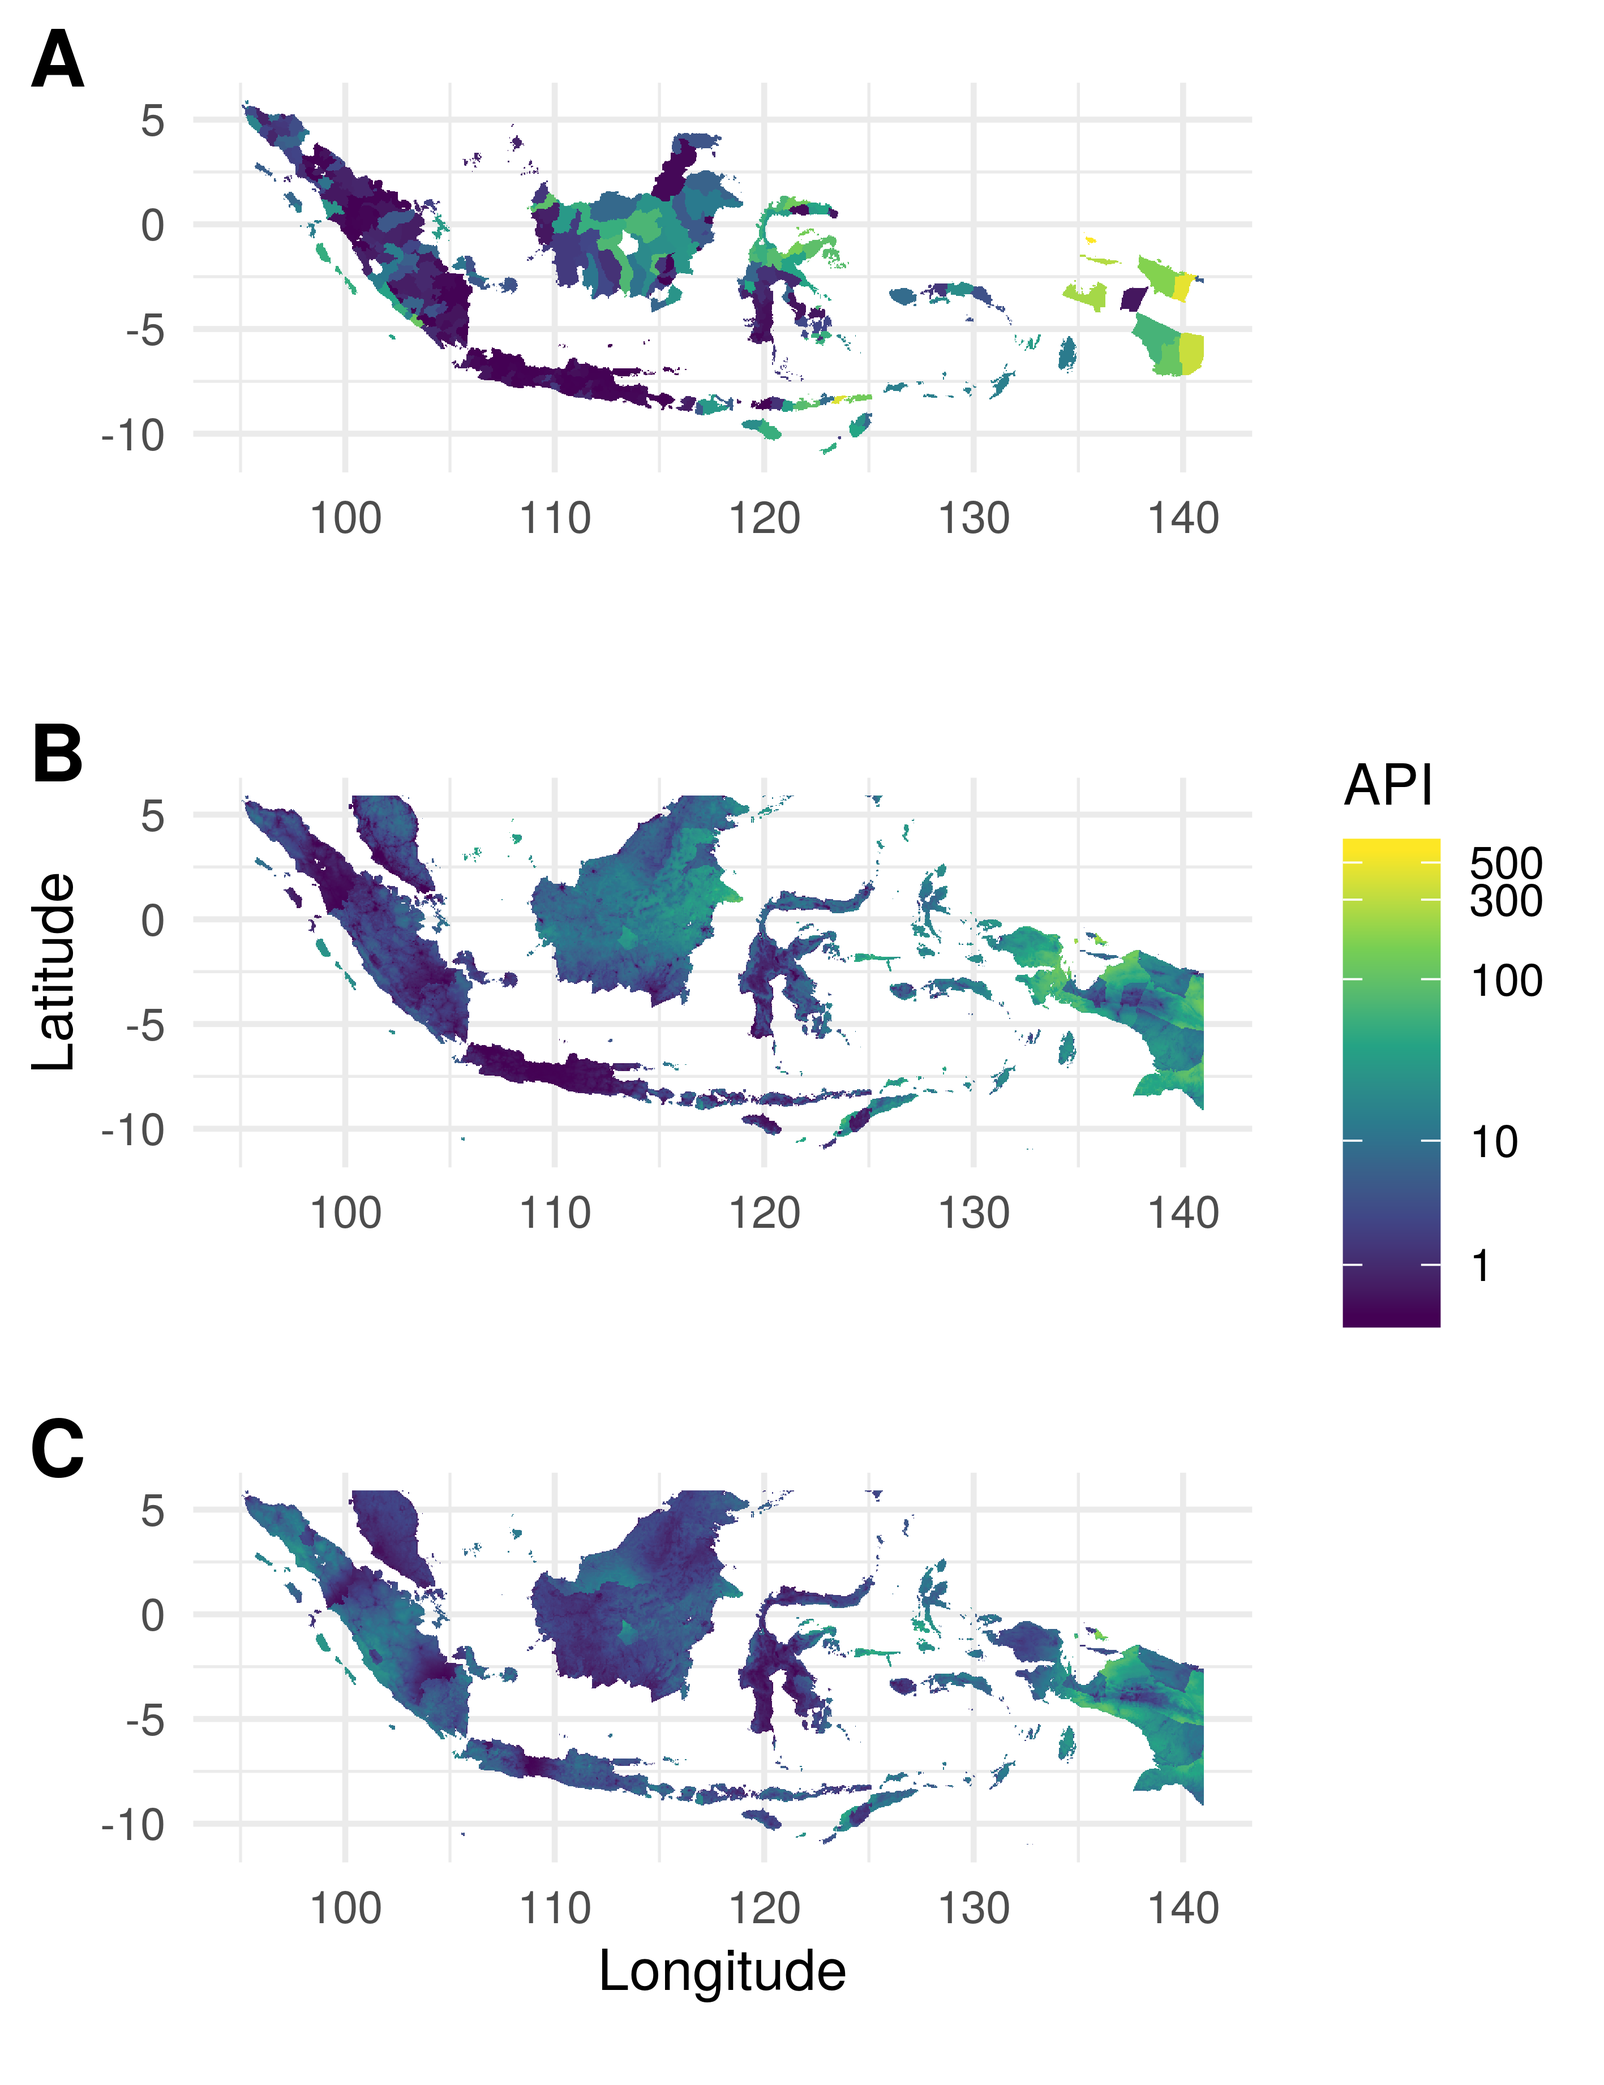
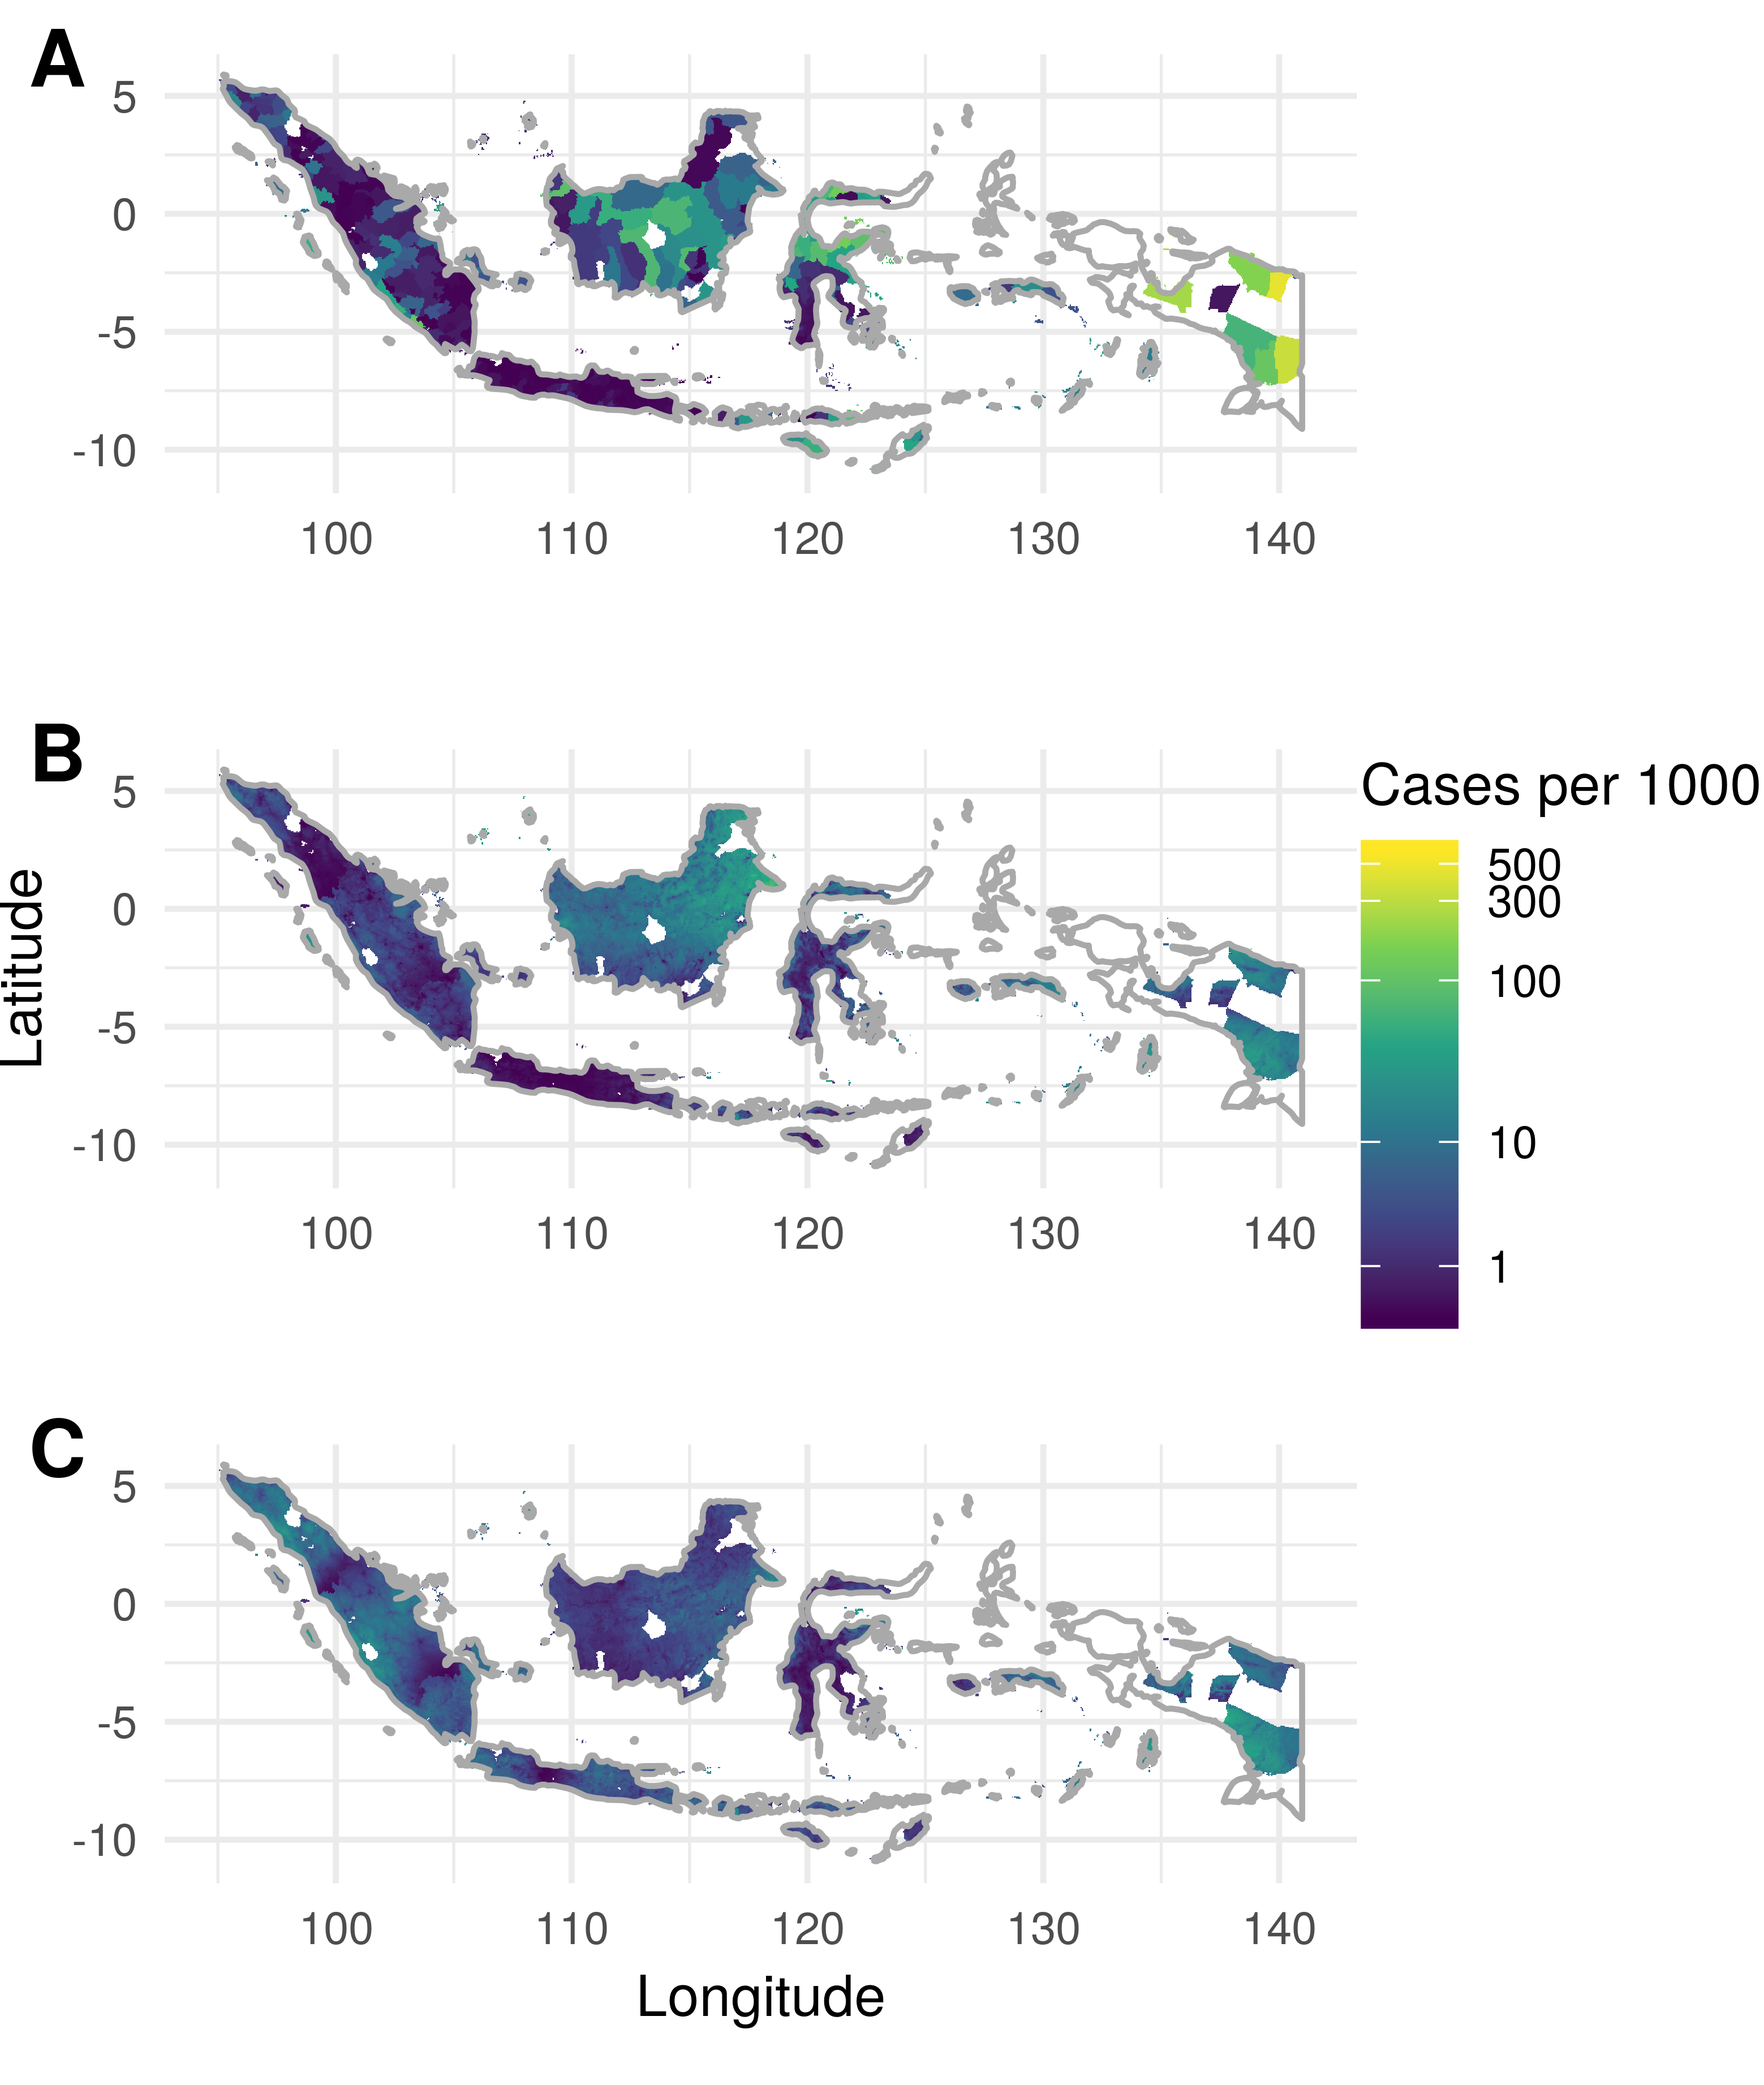
Tidy up.

diff --git a/si.tex b/si.tex
@@ -37,6 +37,8 @@
 % multirow for multiple row tables. 
 \usepackage{multirow}
 
+\usepackage{subfig}
+
 
 
 % Bold the 'Figure #' in the caption and separate it from the title/caption with a period
@@ -351,20 +353,13 @@ The incidence (log10) data (top), predicted log10 incidence from the prevalence 
 
 
 
-
 \clearpage
+
 \subsection{Full model fields}
 
 
 \subsubsection{Senegal}
-\begin{figure}[h!]
-\centering
 
-\includegraphics[width = 0.3\textheight]{figures/sen_prevgp.png}
-
-\caption{The prevalence GP model that is used as a covariate.}
-\label{gpsencov}
-\end{figure}
 
 
 
@@ -376,14 +371,16 @@ The incidence (log10) data (top), predicted log10 incidence from the prevalence 
 \caption{The random field as fitted to all the data in the baseline model.}
 \label{baselinefieldsen}
 \end{figure}
+
+
 \begin{figure}[h!]
-\centering
-
-\includegraphics[width = 0.3\textheight]{figures/sen_prgp_field.png}
-
-\caption{The random field as fitted to all the data in the prevalence GP model.}
-\label{gpfieldsen}
+     \centering
+     \subfloat[][The prevalence GP model that is used as a covariate.]{\includegraphics[width = 0.3\textheight]{figures/sen_prevgp.png}}
+     \subfloat[][The random field as fitted to all the data in the prevalence GP model.]{\includegraphics[width = 0.3\textheight]{figures/sen_prgp_field.png}}
+     \label{gpsencov}
 \end{figure}
+%remaining part
+
 
 \begin{figure}[h!]
 \centering
@@ -399,14 +396,7 @@ The incidence (log10) data (top), predicted log10 incidence from the prevalence 
 
 \clearpage
 \subsubsection{Indonesia}
-\begin{figure}[h!]
-\centering
 
-\includegraphics[width = 0.6\textheight]{figures/idn_prevgp.png}
-
-\caption{The prevalence GP model that is used as a covariate.}
-\label{gpidncov}
-\end{figure}
 
 
 
@@ -415,22 +405,19 @@ The incidence (log10) data (top), predicted log10 incidence from the prevalence 
 
 \includegraphics[width =  0.6\textheight]{figures/idn_baseline_field.png}
 
-\caption{The random field as fitted to all the data in the joint model.}
+\caption{The random field as fitted to all the data in the baseline model.}
 \label{baselinefieldidn}
 \end{figure}
 
 
 
 \begin{figure}[h!]
-\centering
-
-\includegraphics[width =  0.6\textheight]{figures/idn_prgp_field.png}
-
-\caption{The random field as fitted to all the data in the joint model.}
-\label{gpfieldidn}
+     \centering
+     \subfloat[][The prevalence GP model that is used as a covariate.]{\includegraphics[width =0.5\textwidth ]{figures/idn_prevgp.png}}
+     \subfloat[][The random field as fitted to all the data in the prevalence GP model.]{\includegraphics[width = 0.5\textwidth]{figures/idn_prgp_field.png}}
+     \label{gpsencov}
 \end{figure}
-
-
+%remaining part
 
 \begin{figure}[h!]
 \centering
@@ -445,14 +432,10 @@ The incidence (log10) data (top), predicted log10 incidence from the prevalence 
 
 \clearpage
 \subsubsection{Madagascar}
-\begin{figure}[h!]
-\centering
 
-\includegraphics[width =  0.3\textheight]{figures/mdg_prevgp.png}
 
-\caption{The prevalence GP model that is used as a covariate.}
-\label{gpmdgcov}
-\end{figure}
+
+
 
 \begin{figure}[h!]
 \centering
@@ -462,14 +445,20 @@ The incidence (log10) data (top), predicted log10 incidence from the prevalence 
 \caption{The random field as fitted to all the data in the baseline model.}
 \label{baselinefieldmdg}
 \end{figure}
+
+
+
+
 \begin{figure}[h!]
-\centering
-
-\includegraphics[width = 0.3\textheight]{figures/mdg_prgp_field.png}
-
-\caption{The random field as fitted to all the data in the prevalence GP model.}
-\label{gpfieldmdg}
+     \centering
+     \subfloat[][The prevalence GP model that is used as a covariate.]{\includegraphics[width =0.5\textwidth ]{figures/mdg_prevgp.png}}
+     \subfloat[][The random field as fitted to all the data in the prevalence GP model.]{\includegraphics[width = 0.5\textwidth]{figures/mdg_prgp_field.png}}
+     \label{gpsencov}
 \end{figure}
+%remaining part
+
+
+
 
 \begin{figure}[h!]
 \centering

diff --git a/ms.tex b/ms.tex
@@ -27,7 +27,7 @@ UK.}
 \author{Katherine A. Twohig\textsuperscript{1}}
 \author{Suzanne H. Keddie\textsuperscript{1}}
 \author{Emma L. Collins\textsuperscript{1}}
-\author{Rosalind E. Howes}
+\author{Rosalind E. Howes\textsuperscript{1}}
 \author{Michele Nguyen\textsuperscript{1}}
 \author{Susan F. Rumisha\textsuperscript{1}}
 \author{Andre Python\textsuperscript{1}}
@@ -195,6 +195,7 @@ The covariates were standardised to have a mean of zero and a standard deviation
 \makebox{\includegraphics[width = 1.1\textwidth]{figures/sen_both_cv12_preds.png}}
 \caption{\label{predobsmapsen}
 Reported incidence data and modelled incidence maps for Senegal. 
+The national boundary of Senegal is shown in grey and missing data is left white.
 The adjusted input aggregated data is plotted in Panel A, while Panel B maps the predictions of the prevalence Gaussian Process model for for spatially cross-validated out-of-sample polygons and Panel C maps the predicted incidence from the joint model.
 }
 
@@ -219,6 +220,7 @@ The adjusted input aggregated data is plotted in Panel A, while Panel B maps the
 \makebox{\includegraphics[width = 0.8\textwidth]{figures/idn_both_cv12_preds.png}}
 \caption{\label{predobsmapidn}
 Reported incidence data and modelled incidence maps for Indonesia. 
+The national boundary of Indonesia is shown in grey and missing data is left white.
 The adjusted input aggregated data is plotted in Panel A, while Panel B maps the predictions of the prevalence Gaussian Process model for for spatially cross-validated out-of-sample polygons and Panel C maps the predicted incidence from the joint model.
 }
 \end{figure}
@@ -319,7 +321,7 @@ $$i_b = \exp(\alpha)\mathrm{PrevInc}(p_b).$$
 The only further additions to the baseline model are in the linear predictor which becomes 
 
 $$\eta_b = \beta_0 + \mathbf{1}_p\beta_p +  \boldsymbol\beta X  + u_s(\rho, \sigma_u) + v_a(\sigma_v) + w_b(\sigma_w).$$
-As well as the global intercept, $\beta_0$, this model has a prevalence survey specific intercept $b_p$ where the indicator function, $\mathbf{1}_p$ denotes that this term is zero except when a prevalence point-survey is being considered.
+As well as the global intercept, $\beta_0$, this model has a prevalence survey specific intercept $\beta_p$ where the indicator function, $\mathbf{1}_p$ denotes that this term is zero except when a prevalence point-survey is being considered.
 The iid random effect, $v_a \sim \operatorname{Norm}(0, \sigma_v)$, was again grouped by polygon, with all pixels and point-surveys within polygon $a$ being in the same group as polygon $a$.
 The second iid random effect, $w_b \sim \operatorname{Normal}(0, \sigma_w)$, was applied to each point-survey.
 To improve numeric stability this effect is also parameterised internally as the log of the precision, $\omega_w = \log(\tau_w) = \log(\frac{1}{{\sigma_w}^2})$.
